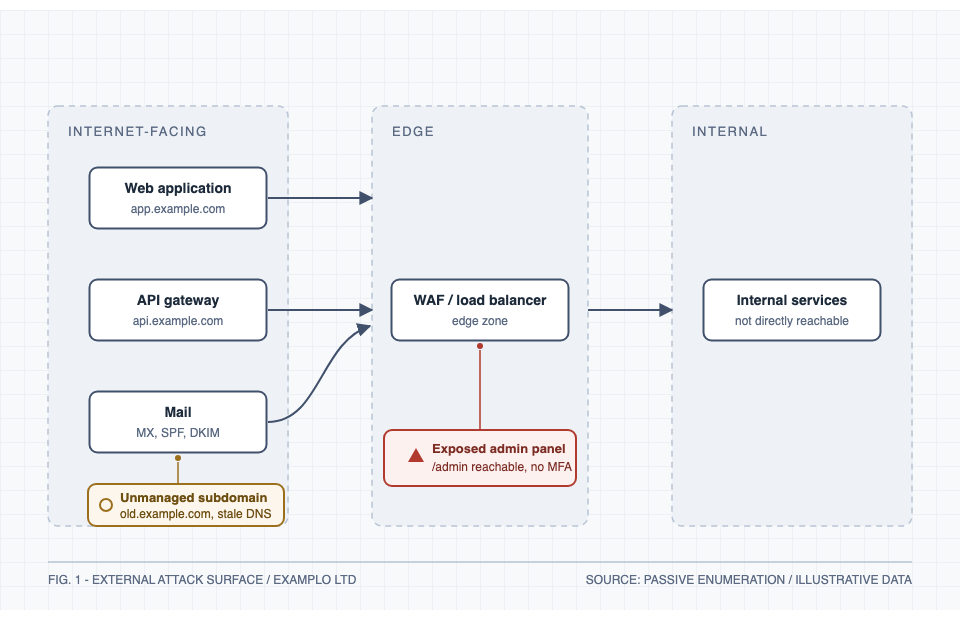
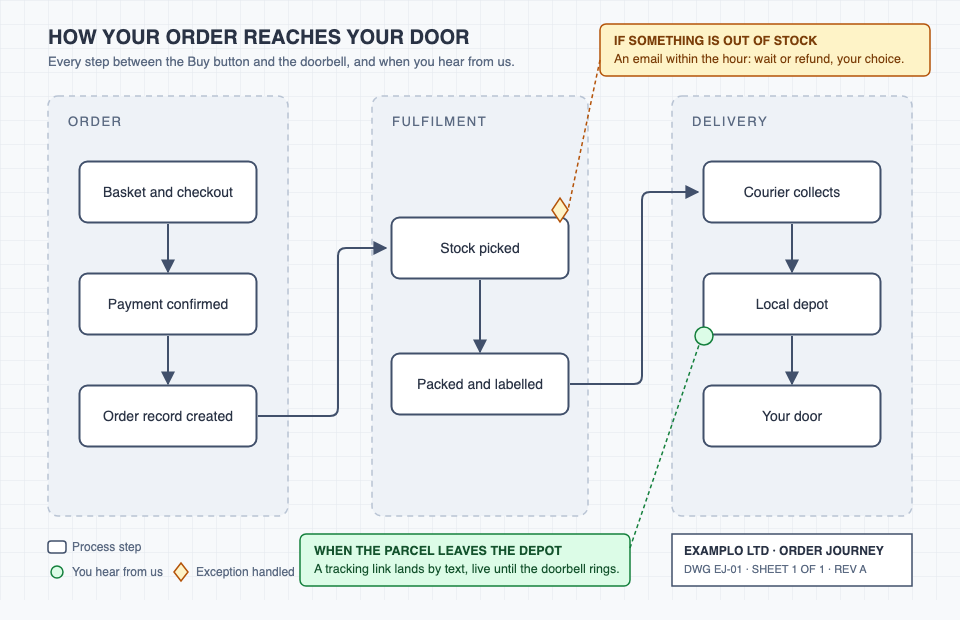
docs: replace attack-surface example diagram with a general-audience one
The SVG example and README preview now show an online-order journey
(Examplo) built with the same construction techniques: zones, symbol
reuse, arrow markers, leader-line callouts, legend and title block.
Verified by headless Chrome render at full and half size.

diff --git a/tests/behavioural-tests.md b/tests/behavioural-tests.md
@@ -26,7 +26,7 @@ For every scenario, also grade the universal criteria: correct understanding of 
 
 - **X-1 Cybersecurity dashboard:** aerospace + Swiss + scientific-viz principles. PASS: usable software interface, not a cockpit mock-up.
 - **X-2 Technical poster:** architectural composition + painterly light + aerospace annotation. PASS: influences explained as one coherent system.
-- **X-3 SVG technical illustration:** system architecture / attack-surface diagram. PASS: valid structure, hierarchy, labels, connectors; rendered where tools allow. (Reference implementation: `../examples/svg/diagram-attack-surface.svg`.)
+- **X-3 SVG technical illustration:** system architecture / process diagram. PASS: valid structure, hierarchy, labels, connectors; rendered where tools allow. (Reference implementation: `../examples/svg/diagram-order-journey.svg`; the original run used a since-replaced attack-surface diagram.)
 - **X-4 Watch-inspired icon system:** horological proportion and finishing at icon scale. PASS: recognisable at small sizes, no decorative watch parts. (Reference: `../examples/svg/icon-shield-scan.svg`, `../examples/annotated-cases.md` case 3.)
 - **X-5 Cross-disciplinary landing page:** industrial design + editorial type + architectural whitespace. PASS: one coherent identity.
 - **X-6 SVG visual audit:** given an existing SVG, find syntax problems, visual defects, geometry inconsistency, excess complexity, accessibility issues, optimisation chances. PASS: confirmed problems separated from possible improvements. (Reference: `../examples/svg/critique-notes.md`.)

diff --git a/examples/svg/README.md b/examples/svg/README.md
@@ -5,7 +5,7 @@ Five example sets demonstrating the standards in `../../references/svg-and-vecto
 | File | Demonstrates |
 |---|---|
 | `illustration-lighthouse.svg` | Clean flat vector illustration: limited palette, focal hierarchy, layered composition, reusable gradient, title/desc accessibility. |
-| `diagram-attack-surface.svg` | Technical diagram with connectors, arrow markers, `<symbol>`/`<use>` node reuse, grid pattern, zone layering, line-weight conventions, findings encoded by colour + shape + label, technical-manual title block. Neutral example data (Examplo Ltd). |
+| `diagram-order-journey.svg` | General-audience technical diagram (an online order's journey) with connectors, arrow markers, `<symbol>`/`<use>` node reuse, grid pattern, zone layering, line-weight conventions, callouts encoded by colour + shape + label, legend and technical-manual title block. Neutral example data (Examplo Ltd). |
 | `icon-shield-scan.svg` | 24px-grid interface icon: 2px stroke discipline, round caps, `currentColor` theme adaptation, optical centring. |
 | `composition-artdeco-sunburst.svg` | Distinctive style study (Art Deco): one ray defined, placed by rotation; symmetric ziggurat skyline; clipped frame; restrained two-colour palette. |
 | `critique-before.svg` / `critique-after.svg` / `critique-notes.md` | Full audit-and-correct workflow: 8 confirmed defects, fixes, and the findings write-up. |

diff --git a/README.md b/README.md
@@ -14,7 +14,7 @@ In a blind-judged comparison on this exact failure mode (a SOC triage dashboard)
 
 Genuine outputs of the skill's verification loop (source SVGs in `examples/svg/`, build record in `examples/svg/README.md`):
 
-![Attack-surface technical diagram](docs/assets/diagram-preview.png)
+![Order-journey technical diagram](docs/assets/diagram-preview.png)
 
 ![Icon family at 16/48/96px on light and dark](docs/assets/icon-preview.png)
 
